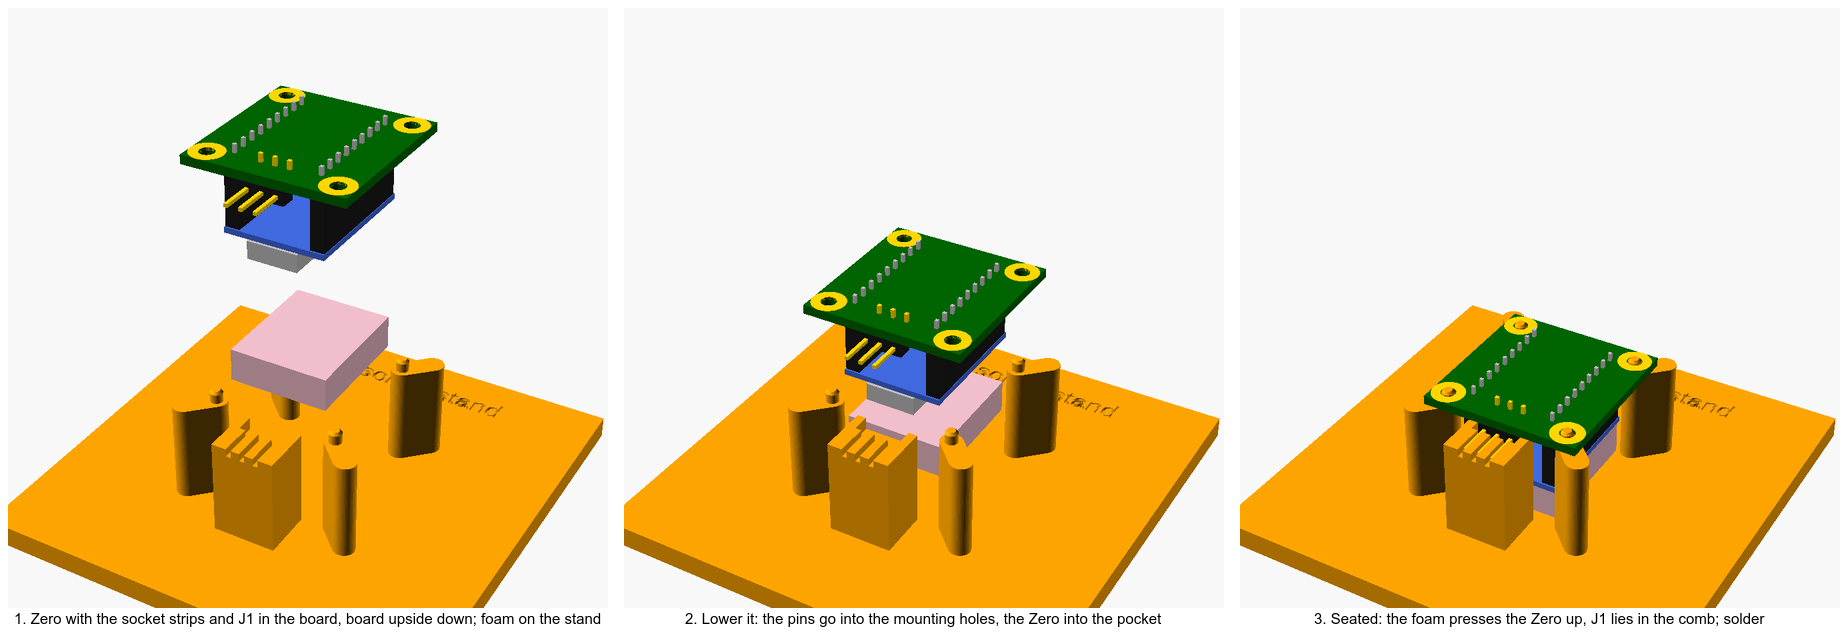
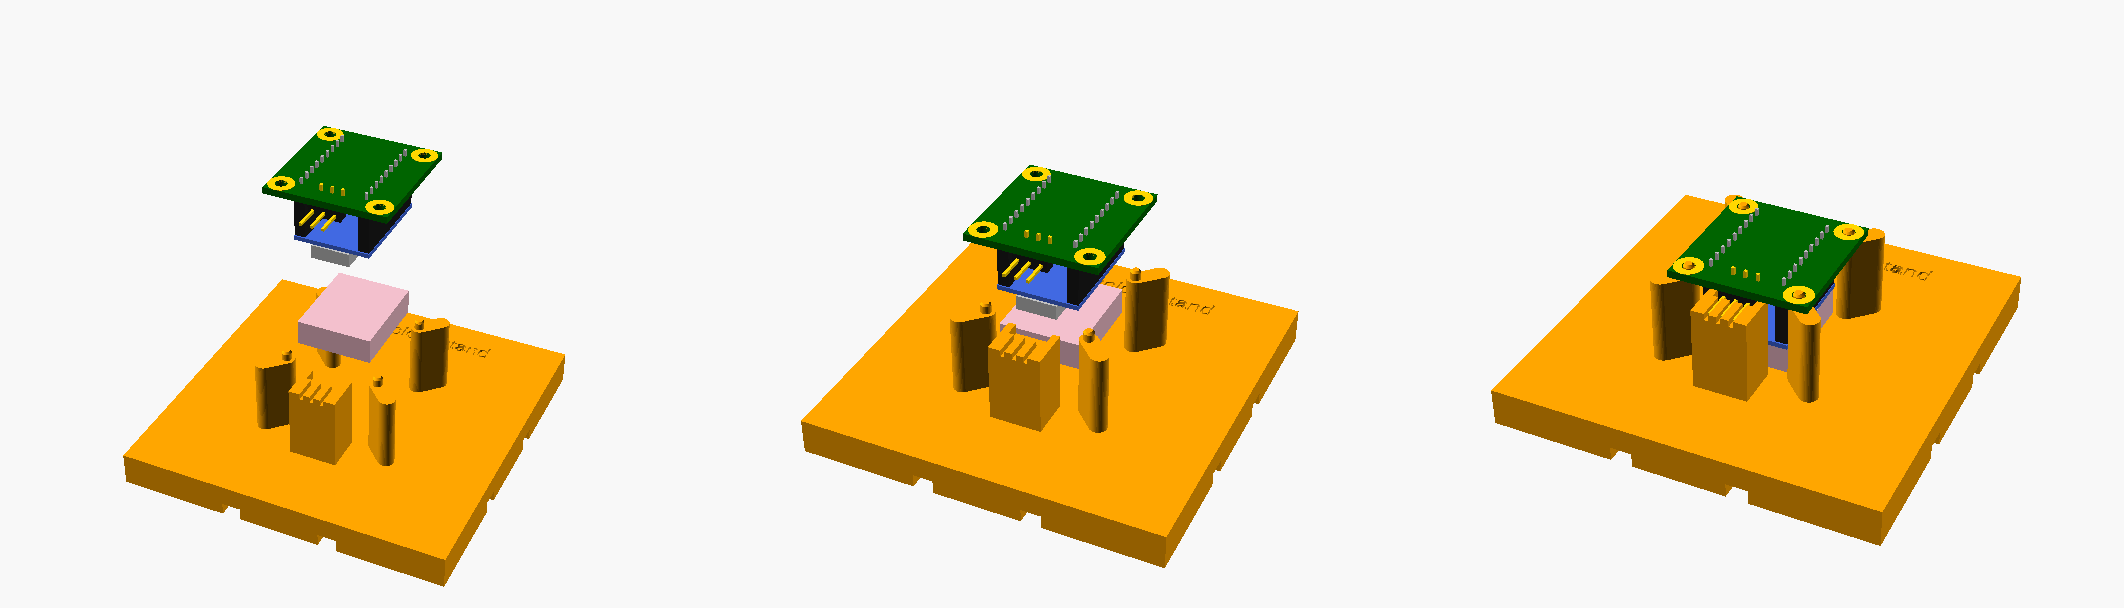
Solder stand: thicker base (8 mm) and grooves in the underside both ways for a rubber band

diff --git a/docs/shield-pcb.md b/docs/shield-pcb.md
@@ -342,7 +342,7 @@ Also collected with all other open points in `roadmap.md`.
 - The speaker it has to carry (40 mm or a production candidate; see `sound-research.md`). The board size itself is settled: 29 x 30 mm, the size of the CyberBrick receiver shield.
 - Whether the Zero's underside is flat (the headers leave about 7 mm of clearance under it, enough for everything on the board; check the real module).
 - **Open (noted 2026-11-15): fitting J1/J3/J4 at JLCPCB for a large series.** Not decided, only looked at. JLCPCB offers through-hole assembly (wave/selective or hand soldering); the fee figures found are second-hand and from 2024-25 (roughly 3.50 USD fixed plus about 0.02 USD per joint), so take the real number from the order quote. LCSC has 1x9, 8.5 mm female strips: C2897372 (HCTL PM254-1-09-Z-8.5, about 8000 in stock, looks like the best match), C22373895 (Hong Cheng, gold), C7509520 (CONNFLY DS1023-1x9SF11, gold), C225506 (CJT A2541HWV-9P); price and pin length not checked. Risk: with the Zero plugged in the two strips are held parallel, the service has no Zero to do that, so they may stand a little crooked; try a few boards first. The small run (5 boards) keeps the hand-cut GME strips. Other strips looked at and not chosen: Preci-Dip 801-87-007-10-001101 (7 positions, 7 mm, precision contacts) and an eBay lot of 24 PPTC091LFBN-RC from Canada (about 815 CZK with shipping).
-- **To think about (noted 2026-11-15): holding the board in the solder stand.** The foam under the Zero pushes the board up, so today only its own weight and the four locating pins keep it down. For one board: screws M2.5 through two opposite corners (head 4.5 mm fits the 6 mm copper ring), or just hold it by hand until the first pins are soldered. For a series screws are too slow: a hinged lid with foam and a printed snap latch, or fitting the sockets at JLCPCB (see above) so that no stand is needed. Nothing is designed; decide when the number of boards is known.
+- **To think about (noted 2026-11-15): holding the board in the solder stand.** The foam under the Zero pushes the board up, so today only its own weight and the four locating pins keep it down. For one board: screws M2.5 through two opposite corners (head 4.5 mm fits the 6 mm copper ring), or just hold it by hand until the first pins are soldered. For a series screws are too slow: a hinged lid with foam and a printed snap latch, or fitting the sockets at JLCPCB (see above) so that no stand is needed. Rubber bands (idea of 2026-11-22): two bands along the strips beside the board, round the whole stand. **The stand has the grooves for them (2026-11-22):** the base is 8 mm thick (was 4) and has a groove 4.5 mm wide and 3 mm deep in its underside both ways, two along the long axis at the strips beside the board and two across at the rows of the mounting holes, so a band sits in a groove and cannot slip. Not tried yet with a printed stand.
 - **Option, to be considered (noted 2026-11-15): low sockets for J3/J4.** LaskaKit sells a 1x9 female strip with a 3.5 mm body (`LA217087H`, 0.24 EUR, 2.54 mm pitch, holes 1.02 mm, tails 2.6 mm; https://www.laskakit.cz/en/dutinkova-lista-2-54-mm-nizka-3-5mm-jednorada-prima/). Same footprint as the 8.5 mm strip, so no board change; the stack would be lower. Open points: the Zero-M's pins are probably longer (about 6 mm) than the 3.5 mm body, so the Zero would grip only on the contacts; measure the pins and try one pair on the prototype first; `hardware/solder_stand/` assumes the tall strips and would need a new pocket depth. A try, not a must. **Update 2026-11-21:** after seeing the rev A board with the Zero stacked on the tall sockets (side photo), the project owner wants lower sockets as a goal for rev B, at the very least; first measure the Zero's pin length and try a pair on a rev A board. Measured 2026-11-21: the Zero's pins are about 6 mm long (5.95 to 6.2 measured), from the underside of the yellow plastic of its pin header to the tip (side photo from the same day). In a 3.5 mm strip they would bottom out on the board, leaving the plastic about 2.5 to 2.7 mm above the strip, so the saving is about 2.5 mm, not 5 mm; to be confirmed with a real pair. **Recommendation (2026-11-21): try the LaskaKit 3.5 mm strip `LA217087H` first.** With 6 mm pins the Zero's underside would be at about 6 mm (3.5 mm body + 2.5 mm of plastic left above it) instead of 8.5 mm, which still clears the tallest part under it (J2, 2.9 mm); the Zero is held by the contacts only, so check that it does not tilt. A strip of about 5.5 to 6 mm would let the plastic seat, but none has been found or checked. **Decision 2026-11-21: for now we keep the 8.5 mm sockets and the Zero-M as they are.** The saving is only about 2.5 mm, the Zero's pins cannot be shortened, and a Zero without header (Waveshare ESP32-S3-Zero-N8R8, SKU 33879, not the 2 MB PSRAM base board) would be needed for shorter pins; reconsider if the space in the model turns out too tight.
 
 ## Out of scope for this iteration
